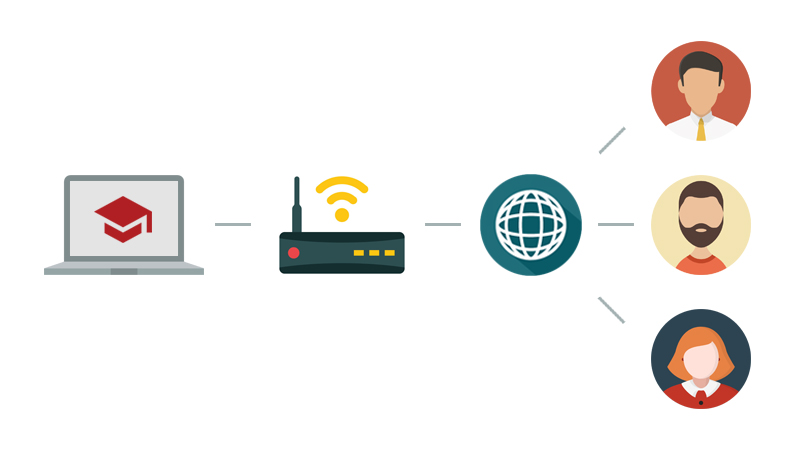
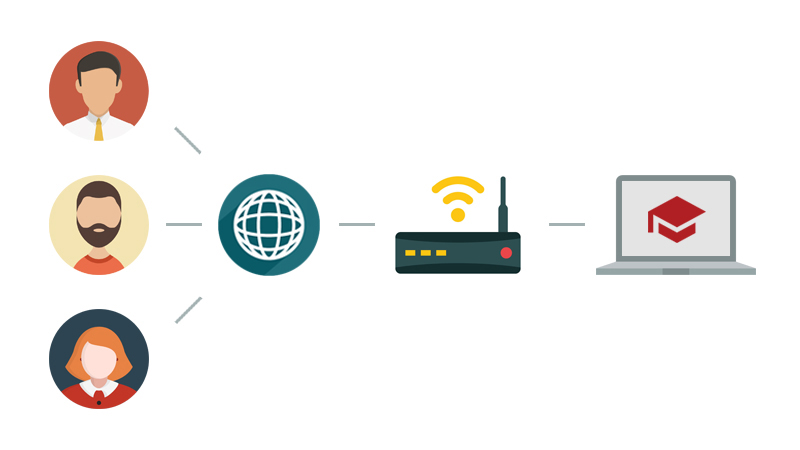
Updates Development/TestSystem/1.jpg
Auto commit by GitBook Editor

diff --git a/Development/TestSystem/README.md b/Development/TestSystem/README.md
@@ -1,27 +1,23 @@
 # Тестовая система
 
-Прежде чем приступить к разработке в WebTutor, желательно подготовить тестовую систему. Разрабатывать можно сразу и на живой системе, если вы имеете достаточный опыт работы с WebTutor и являетесь ответственным за эту систему и имеете все необходимые права. Хотя даже при таком раскладе разработка в собственной тестовой системе на своем компьютере намного удобнее, так как вы можете делать все, что угодно при этом ни несете никаких рисков.
+Прежде чем приступать к разработке в WebTutor, желательно подготовить тестовую систему. Разрабатывать можно сразу и на живой системе, если вы имеете достаточный опыт работы с WebTutor и являетесь ответственным за эту систему и имеете все необходимые права. Хотя даже при таком раскладе разработка в собственной тестовой системе на своем компьютере намного удобнее, так как вы можете делать все, что угодно при этом ни несете почти никаких рисков.
 
 Единственный минус собственной тестовой системы, который мне пришел в голову, это то, что не всегда есть возможность использовать аналогичную живой системе относительно большую базу данных и мощности живого сервера. То есть при таком раскладе не удается полноценно протестировать разработанное и увидеть, что происходит при реальных данных и высоких нагрузках. Но если ваша тестовая система сопоставима по мощности вашей живой системе, то минусов, вообще не вижу.
 
-Необходимо, чтобы система была удобна в использовании для всех сторон: разработчиков, тестировщиков и заказчика. Самый оптимальный, проверенный вариант, это такая схема:
+Необходимо, чтобы тестовая система была удобна в использовании для всех сторон: разработчиков, тестировщиков и заказчика. 
 
-* Windows + WebTutor + IIS + MS SQL
-* доступ в WebTutor Administrator
-* FTP доступ
-* RDP доступ
-* и главное, чтобы все это было доступно из интернета
+Тестовая система должна быть доступна из интернета и предоставлять доступ на портал WebTutor, WebTutor Administrator и FTP.
+
+Пользователи будут делать запросы из интернета к вашему роутеру, а он будет редиректить на ваш тестовый WebTutor и FTP.
 
 ![](/Development/TestSystem/1.jpg)
-
-То есть пользователи будут подключаться из интернета к вашему роутеру, а роутер будет редиректить на ваш тестовый WebTutor, директорию с FTP доступом итп.
 
 Что для этого необходимо:
 
 * Относительно мощный компьютер \(тут по ситуации, думаю необходимая мощность будет зависеть от размеров базы данных, могу только сказать, что c 250GB MS SQL базой, на ноутбуке с четырехъядерным i7-4700MQ 2.4 GHz, 8GB DDR3 и SSD диском, все летает\)
 * ПО
 
-  * Windows 10 Pro 64-bit\(1709 16299.125\) \(Windows можно и других версий, главное, чтобы была возможность устанавливать дополнительные модули в разделе Program and Features \(Установка и Удаление программ\) IIS, FTP и была возможность подключаться через RDP\)
+  * Windows 10 Pro 64-bit\(1709 16299.125\) \(можно и других версий\)
   * WebTutor
   * SQL Server
   * SQL Server Management Studio
@@ -30,11 +26,9 @@
 
 * Выделенный IP-адрес
 
-* Роутер \(желательно, но можно и без него\)
+* Роутер
 
-* ~1.5 часа времени
-
-Установка и настройка тестовой системы будет производится на основе стандартной руководства [Руководство системного администратора WebTutor](/Development/TestSystem/WebTutorInstallation.pdf) \(актуальную версию можно скачать по [ссылке](http://news.websoft.ru/view_doc.html?mode=doc_type&object_id=5486421379493803019&doc_id=5900009198344233385&section_id=5903427210833450983)\), но помимо стандартной установки, будет делаться много чего еще + установка по инструкции проходит не всегда гладко и приходится делать дополнительные манипуляции, чтобы все работало.
+Данный раздел сделан на основе стандартного руководства [Руководство системного администратора WebTutor](/Development/TestSystem/WebTutorInstallation.pdf) \(актуальную версию можно скачать по [ссылке](http://news.websoft.ru/view_doc.html?mode=doc_type&object_id=5486421379493803019&doc_id=5900009198344233385&section_id=5903427210833450983)\).
 
 В книге используются последние на момент написания версии ПО, вы на свое усмотрение можете его комбинировать, использовать более новые или старые версии, процесс установки со временем почти не меняется и все скорее всего будет работать.
 
@@ -48,7 +42,7 @@
 
 ## Этапы установки тестовой системы
 
-| Разделы |
+| Этапы |
 | :--- |
 | [Установка WebTutor](/Development/TestSystem/InstallationWebTutor/README.md) |
 | [Установка IIS](/Development/TestSystem/InstallationIIS/README.md) |
@@ -58,7 +52,7 @@
 | [Подключение WebTutor к SQL Server](/Development/TestSystem/ConnectingWebTutorToSQLServer/README.md) |
 | [Запуск WebTutor](/Development/TestSystem/StartWebTutor/README.md) |
 | [FTP доступ](/Development/TestSystem/FTPAccess/README.md) |
-| Доступ из интернета |
+| [Доступ из интернета](/Development/TestSystem/InternetAccess/README.md) |
 
 
 
